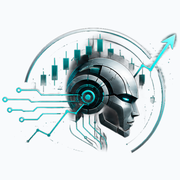
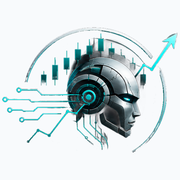
Fix stuck tour + search overlay (root cause) · clean emblem · guest chrome quarantine
THE BIG ONE - overlay dismissal (theme section 33): the max-legibility
layer (section 22) pins `opacity:1 !important` on #qe-tour-overlay and
#qz-search-overlay - but BOTH hide by fading via class removal. So a
finished tutorial stayed painted on screen forever ("can't continue
after the tutorial") and the search overlay could never visually close
(the recurring "search isn't going" complaint - THIS was the real root
cause all along). Higher-specificity :not(.show)/:not(.open) rules now
restore opacity:0 + pointer-events:none + display:none.
Verified: fresh tour runs 1/6..6/6, "Start exploring" closes it, stays
closed across boot ticks; search opens and closes via close button,
qzSearchClose, and ESC.

Emblem cleaned ("messed up emblem"): desaturated-grey mist killed by
confidence (sat/brightness gates outside the AI-matted head), alpha
hardened with an S-curve so fog dies and strokes solidify, despeckle.
Crisp cutout, face fully intact. Favicons regenerated.

Guest chrome quarantine (section 32): market clock (was overlapping
the auth card's Google button), copilot dock, HUD toggle, shortcuts,
orb dismiss, watermark, ticker tape, and the legacy holographic
trading canvas no longer paint for logged-out visitors; the old
#qe-on-landing canvas overlay (ghost-glyph debris over the hero) is
retired outright.

diff --git a/index.html b/index.html
@@ -16177,6 +16177,45 @@ html, body { background: #FFFFFF !important; }
   #landing .qzl-hero-mark { height: 84px; }
   #landing .qzl-cta-mark { height: 84px; }
 }
+
+/* ══════════════════════════════════════════════════════════════════
+   32 · GUEST CHROME QUARANTINE — the marketing landing shows ONLY the
+   landing. App chrome (market clock, copilot dock, HUD toggle,
+   shortcuts, orb dismiss, ticker tape) and legacy decorative canvas
+   layers must never paint for logged-out visitors: the market clock
+   was overlapping the auth card, and the old holographic trading
+   canvases were scattering ghost glyphs over the light hero.
+   ══════════════════════════════════════════════════════════════════ */
+body:not(.qe-in-app) #qz-market-clock,
+body:not(.qe-in-app) #qz-copilot-dock,
+body:not(.qe-in-app) #hud-toggle-btn,
+body:not(.qe-in-app) #qe-shortcuts,
+body:not(.qe-in-app) #qe-orb-dismiss,
+body:not(.qe-in-app) #qe-watermark,
+body:not(.qe-in-app) #qe-tape-track,
+body:not(.qe-in-app) #qe-trading-bg {
+  display: none !important;
+}
+/* Legacy dark-theme landing canvas overlay — retired outright. */
+#qe-on-landing { display: none !important; }
+
+/* ══════════════════════════════════════════════════════════════════
+   33 · OVERLAY DISMISSAL FIX — section 22 pins `opacity:1 !important`
+   on the tour + search overlays for text legibility, but BOTH hide by
+   fading out via class removal — so a finished tour stayed painted on
+   screen forever and the search overlay could never visually close.
+   These higher-specificity rules restore the hidden state.
+   ══════════════════════════════════════════════════════════════════ */
+#qe-tour-overlay:not(.show) {
+  opacity: 0 !important;
+  pointer-events: none !important;
+  display: none !important;
+}
+#qz-search-overlay:not(.open) {
+  opacity: 0 !important;
+  pointer-events: none !important;
+  display: none !important;
+}
 </style>
 <script defer src="js/app.min.js?v=20260805-28"></script>
 </body>
